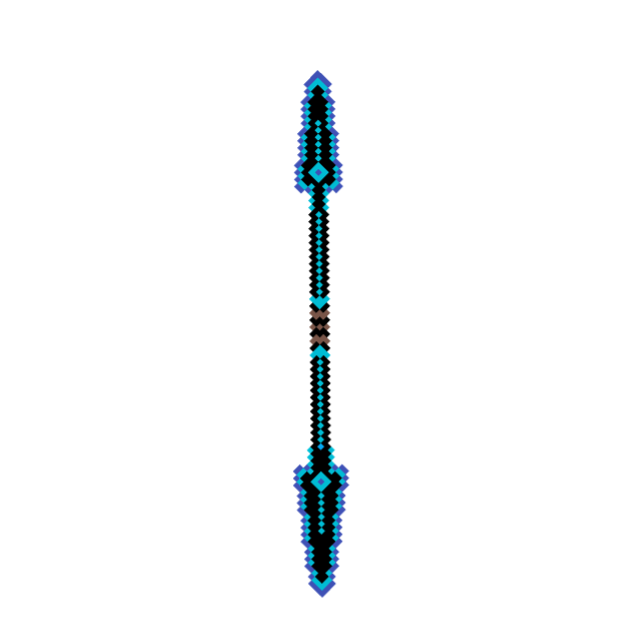
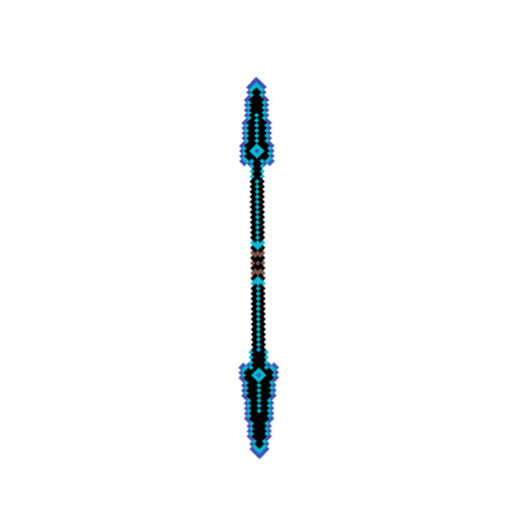
Commit 8.9: updated spears

Changed region(s): [[0.4358, 0.1181, 0.5603, 0.9449]]

diff --git a/A8/model.cpp b/A8/model.cpp
@@ -100,7 +100,6 @@ void Model::initFish1(){
     // Set the bounciness
     fixtureDefFish.restitution = 0.0f;
     fixtureDefFish.userData = (void*) 1;
-    //    fixtureDefFish.isSensor = true;
 
     // Add the shape to the body.
     fish1->CreateFixture(&fixtureDefFish);
@@ -141,7 +140,6 @@ void Model::initFish2(){
     // Set the bounciness
     fixtureDefFish.restitution = 0.0f;
     fixtureDefFish.userData = (void*) 2;
-//    fixtureDefFish.isSensor = true;
 
     // Add the shape to the body.
     fish2->CreateFixture(&fixtureDefFish);
@@ -190,7 +188,7 @@ void Model::initFish3(){
 void Model::initSpear(){
     switch(currentSpear){
         case 1:
-            spearImage.load(":/spear.png");
+            spearImage.load(":/spear4.png");
             break;
         case 2:
             spearImage.load(":/spear2.png");
@@ -247,7 +245,6 @@ void Model::initSpear(){
     // Set the bounciness
     fixtureDef.restitution = 0.0f;
     fixtureDef.userData = (void*) 4;
-    //fixtureDef.isSensor = true;
 
     // Add the shape to the body.
     spear->CreateFixture(&fixtureDef);

diff --git a/A8/view.cpp b/A8/view.cpp
@@ -57,13 +57,13 @@ View::View(Model &model,  QWidget *parent)
     ui->saltPicLabel->setPixmap(water.scaled(ui->saltPicLabel->width(), ui->saltPicLabel->height()));
 
     // Set images for moving fishes
-    ui->fish1Label->setStyleSheet("border-image: url(://fishShadows/fishShadow.png)"); //
+    ui->fish1Label->setStyleSheet("border-image: url(://fishShadows/fishShadow.png)");
     ui->fish2Label->setStyleSheet("border-image: url(://fishShadows/fishShadow.png)");
     ui->fish3Label->setStyleSheet("border-image: url(://fishShadows/fishShadow.png)");
 
     // set image for the spear
     QPixmap spearPix;
-    spearPix.load(":/spear.png");
+    spearPix.load(":/spear1.png");
     ui->spearLabel->setPixmap(spearPix.scaled(ui->spearLabel->width(), ui->spearLabel->height()));
 
     //Set up the initial Widget
